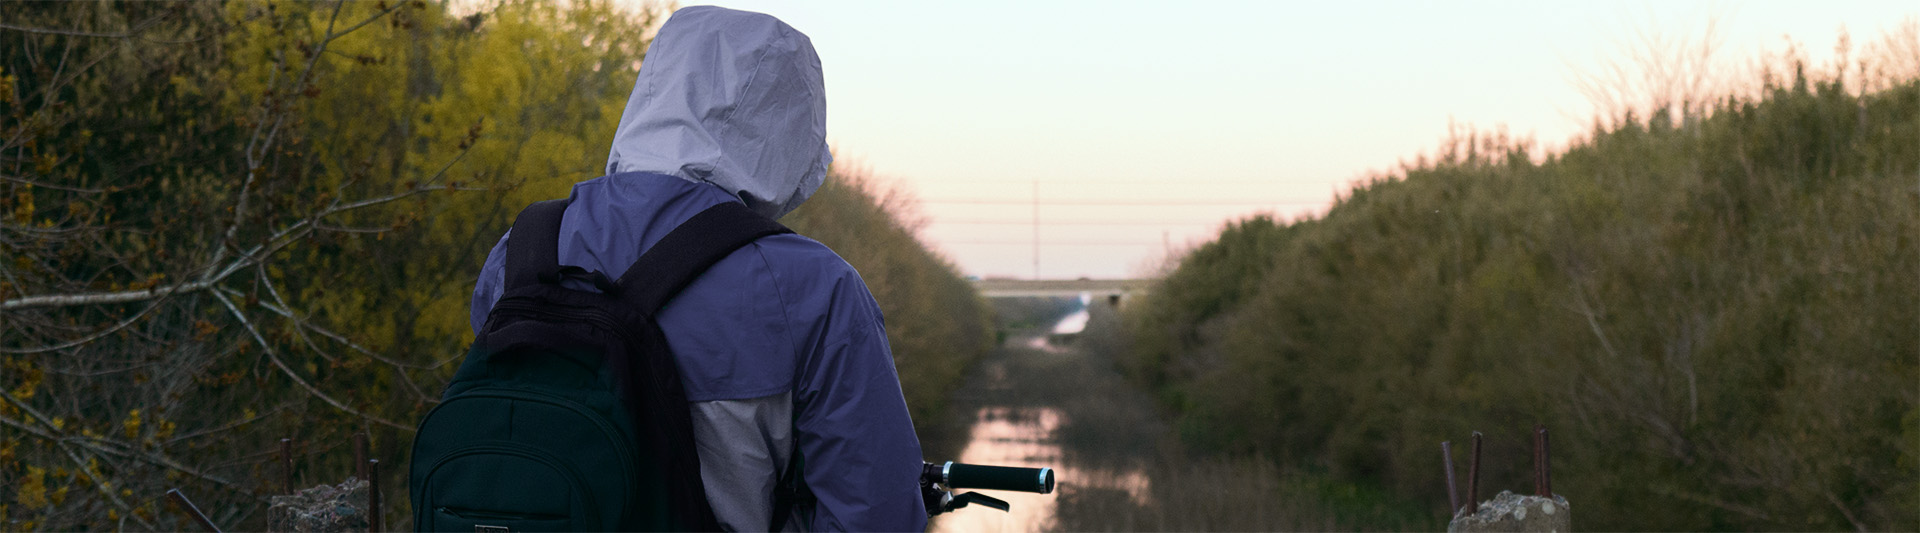
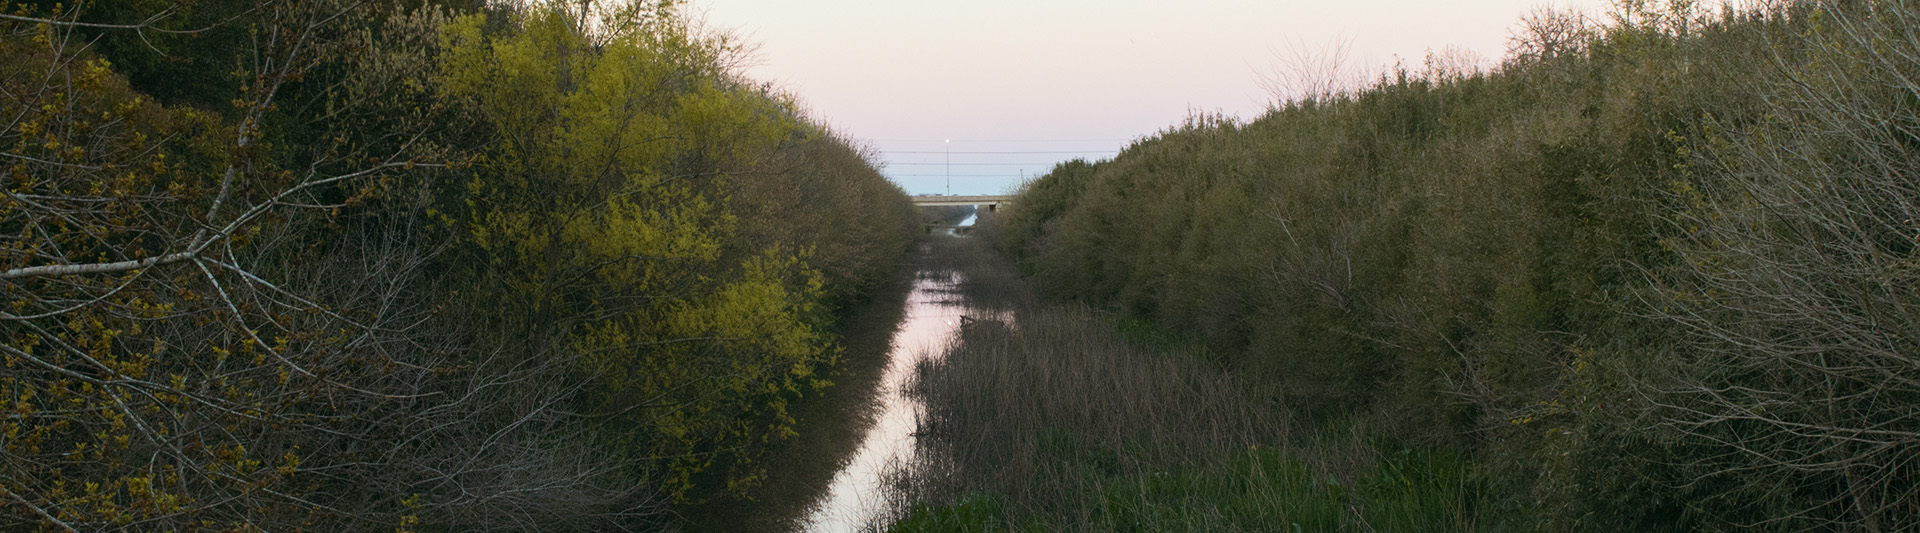
New header & colors

diff --git a/styles/styles.css b/styles/styles.css
@@ -16,7 +16,7 @@ ul.navbar {
   margin: 0;
   padding: 0;
   overflow: hidden;
-  background-color: #68417f;
+  background-color: #7F867B;
   position: -webkit-sticky;
   position: sticky;
   top:0;
@@ -39,12 +39,12 @@ ul.navbar li a {
 }
 
 ul.navbar li a:hover {
-  background-color: #c66aab;
+  background-color: #D4C8BE;
 }
 
 a.active {
   font-weight: 700;
-  background-color: #219bc3;
+  background-color: #AF9F8C;
 }
 
 /* Header Image */
@@ -65,28 +65,24 @@ img.headshot {
 border-radius: 50%;
 width: 15vw;
 height: auto;
-border: 0.15em solid #b2d3e1;
+border: 0.15em solid #E3E4E0;
 float: right;
 margin-right: 20%;
 margin-top: 1%;
 }
 
-.headshotwrapper a {
-font-weight: 1000;
-font-size: 125%;
-}
 
 a:hover {
-color: #f2cfda;
+color: #D4C8BE;
 }
 
 a{
-color: #219bc3;
+color: #E3E4E0;
 text-decoration: none;
 }
 
 .footer {
-background-color: #1c1122;
+background-color: #323531;
 font-size: 75%;
 padding: 1em;
 margin-top: 2vh;
@@ -98,12 +94,8 @@ text-align: center;
   color: inherit;
 }
 
-.footer a:hover {
-  color: #f2cfda;
-}
-
 .gallery {
-border: 0.15em solid #b2d3e1;
+border: 0.15em solid #E3E4E0;
 width: 25vw;
 height: auto;
 }
